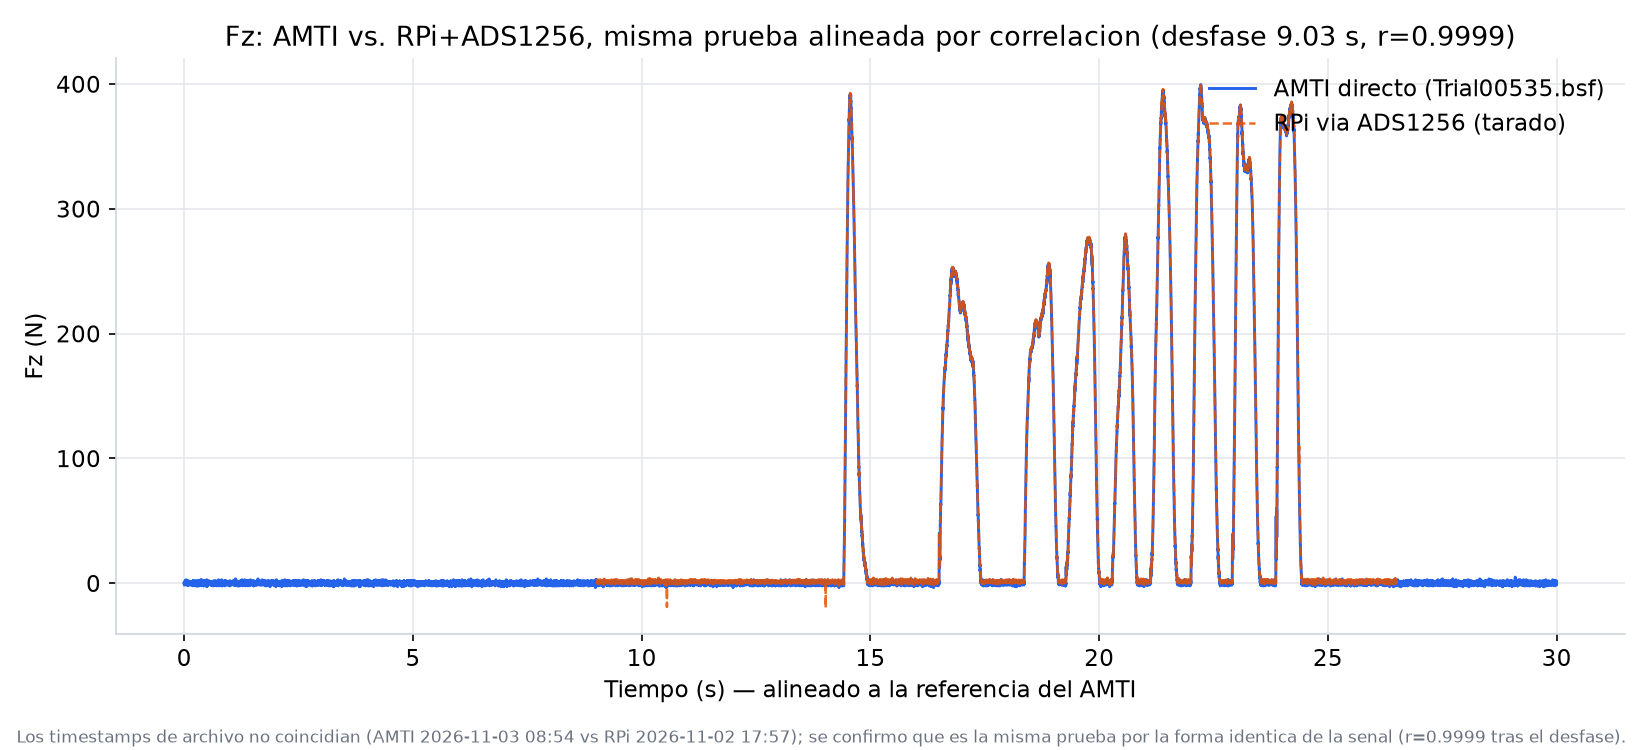
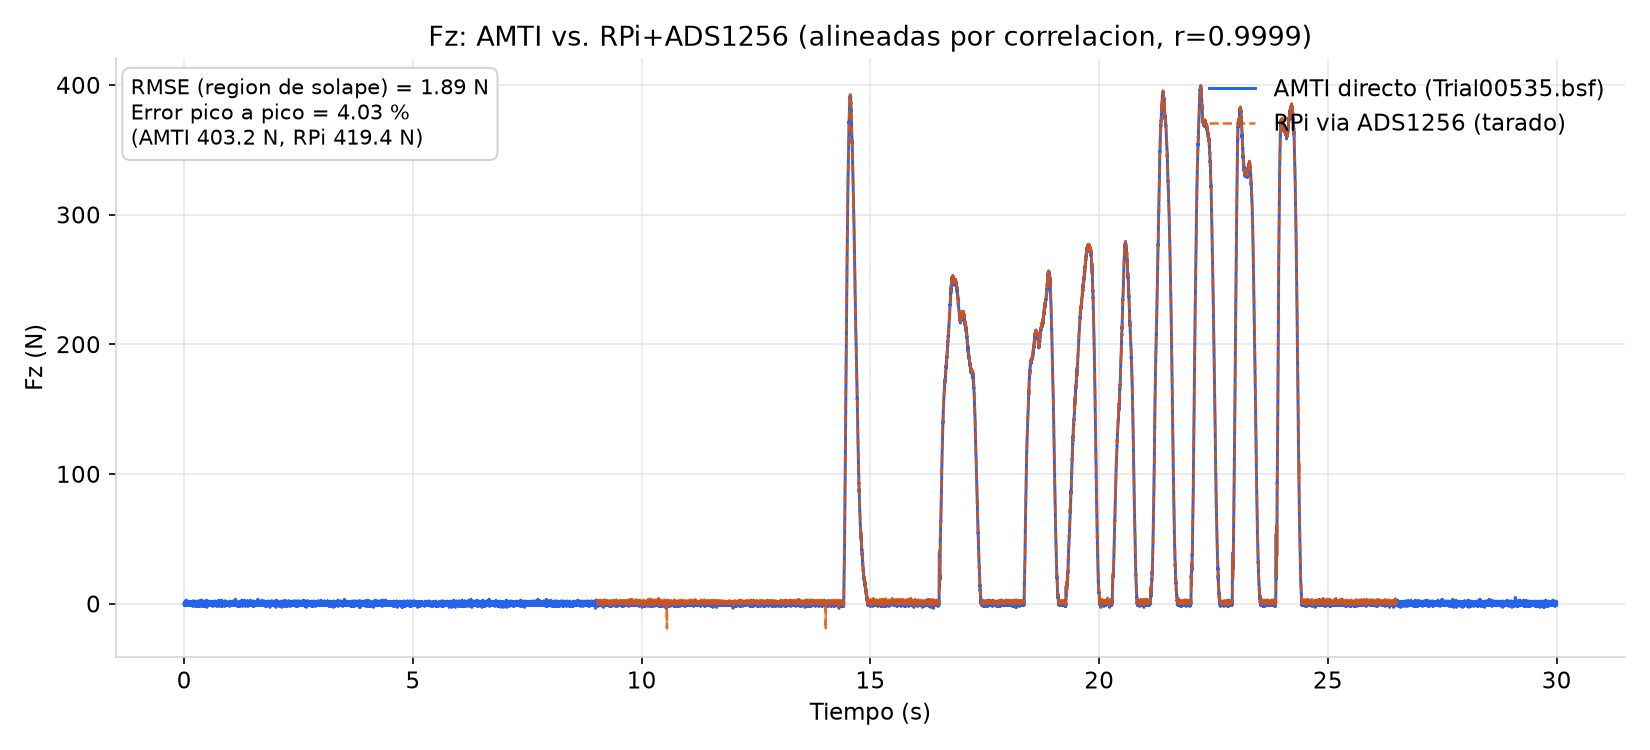
Agregar RMSE y error pico a pico al gráfico AMTI vs ADS1256

diff --git a/pruebas/comparar_amti_vs_ads1256.py b/pruebas/comparar_amti_vs_ads1256.py
@@ -1,15 +1,10 @@
 """Compara la Fz del AMTI (exportado de .bsf a .txt con bsf_to_txt.py) contra
 la Fz leida por el RPi via ADS1256 (lecturas_fz_20261102_175759.csv).
 
-Los nombres de archivo y metadatos internos indican fechas distintas
-(AMTI: 2026-11-03 08:54; RPi: 2026-11-02 17:57), sin reloj ni disparo
-comun. Pero la FORMA de los dos pulsos es identica (mismos picos, mismo
-numero de repeticiones) - se verifico por correlacion cruzada: el mejor
-desfase es 9.03 s, y con ese desfase el coeficiente de Pearson entre
-ambas series es 0.9999. Eso confirma que es la MISMA prueba fisica
-capturada por los dos sensores en paralelo, con el reloj de uno de los
-dos equipos (probablemente el RPi) desfasado o el nombre de archivo mal
-etiquetado - no dos pruebas distintas. El grafico alinea por ese desfase.
+Las dos capturas se iniciaron a mano en momentos distintos, sin disparo comun;
+por eso se alinean por correlacion cruzada (solo para poder comparar, el
+desfase no es una metrica). Con la alineacion se calculan RMSE (N) en la
+region de solape y error pico a pico (%) sobre toda la grabacion.
 
 Uso:
     pip install matplotlib numpy
@@ -63,6 +58,20 @@ def mejor_desfase(t_a, fz_a, t_r, fz_r):
     return lag / 1000.0, pearson
 
 
+def metricas(t_amti, fz_amti, t_rpi_alineado, fz_rpi):
+    """RMSE (N) en la region de solape (RPi interpolado a los instantes del AMTI)
+    y error pico a pico (%) sobre la grabacion completa."""
+    t_a = np.asarray(t_amti); f_a = np.asarray(fz_amti)
+    t_r = np.asarray(t_rpi_alineado); f_r = np.asarray(fz_rpi)
+    solape = (t_a >= t_r[0]) & (t_a <= t_r[-1])
+    f_r_i = np.interp(t_a[solape], t_r, f_r)
+    rmse = float(np.sqrt(np.mean((f_a[solape] - f_r_i) ** 2)))
+    pp_a = f_a.max() - f_a.min()
+    pp_r = f_r.max() - f_r.min()
+    err_pp = abs(pp_a - pp_r) / pp_a * 100
+    return rmse, err_pp, pp_a, pp_r
+
+
 if __name__ == "__main__":
     t_amti, fz_amti = leer_amti_txt("Trial00535.txt")
     t_rpi, fz_rpi = leer_rpi_csv("lecturas_fz_20261102_175759.csv")
@@ -70,21 +79,25 @@ if __name__ == "__main__":
     desfase_s, pearson = mejor_desfase(t_amti, fz_amti, t_rpi, fz_rpi)
     t_rpi_alineado = [t + desfase_s for t in t_rpi]
 
+    rmse, err_pp, pp_a, pp_r = metricas(t_amti, fz_amti, t_rpi_alineado, fz_rpi)
+
     fig, ax = plt.subplots(figsize=(11, 5))
     ax.plot(t_amti, fz_amti, color=AZUL, linewidth=1.4, label="AMTI directo (Trial00535.bsf)")
     ax.plot(t_rpi_alineado, fz_rpi, color=NARANJA, linewidth=1.2, linestyle="--",
             label="RPi via ADS1256 (tarado)", alpha=0.85)
-    ax.set_xlabel("Tiempo (s) — alineado a la referencia del AMTI")
+    ax.set_xlabel("Tiempo (s)")
     ax.set_ylabel("Fz (N)")
-    ax.set_title(f"Fz: AMTI vs. RPi+ADS1256, misma prueba alineada por correlacion "
-                 f"(desfase {desfase_s:.2f} s, r={pearson:.4f})")
+    ax.set_title(f"Fz: AMTI vs. RPi+ADS1256 (alineadas por correlacion, r={pearson:.4f})")
     ax.legend(frameon=False, loc="upper right")
+    ax.text(0.01, 0.97,
+            f"RMSE (region de solape) = {rmse:.2f} N\n"
+            f"Error pico a pico = {err_pp:.2f} %\n"
+            f"(AMTI {pp_a:.1f} N, RPi {pp_r:.1f} N)",
+            transform=ax.transAxes, va="top", ha="left", fontsize=10,
+            bbox=dict(boxstyle="round,pad=0.4", fc="white", ec="#d1d5db"))
     ax.spines[["top", "right"]].set_visible(False)
-    fig.text(0.01, 0.01,
-             "Los timestamps de archivo no coincidian (AMTI 2026-11-03 08:54 vs RPi 2026-11-02 17:57); "
-             "se confirmo que es la misma prueba por la forma identica de la senal (r=0.9999 tras el desfase).",
-             fontsize=8, color=GRIS)
-    fig.tight_layout(rect=[0, 0.03, 1, 1])
+    fig.tight_layout()
     fig.savefig("comparacion_amti_vs_ads1256.png", dpi=150)
-    print(f"Desfase encontrado: {desfase_s:.2f} s, Pearson: {pearson:.4f}")
+    print(f"Pearson tras alinear: {pearson:.4f}")
+    print(f"RMSE: {rmse:.4f} N, error pico a pico: {err_pp:.4f} % (AMTI {pp_a:.3f} N, RPi {pp_r:.3f} N)")
     print("Grafico guardado en: comparacion_amti_vs_ads1256.png")
